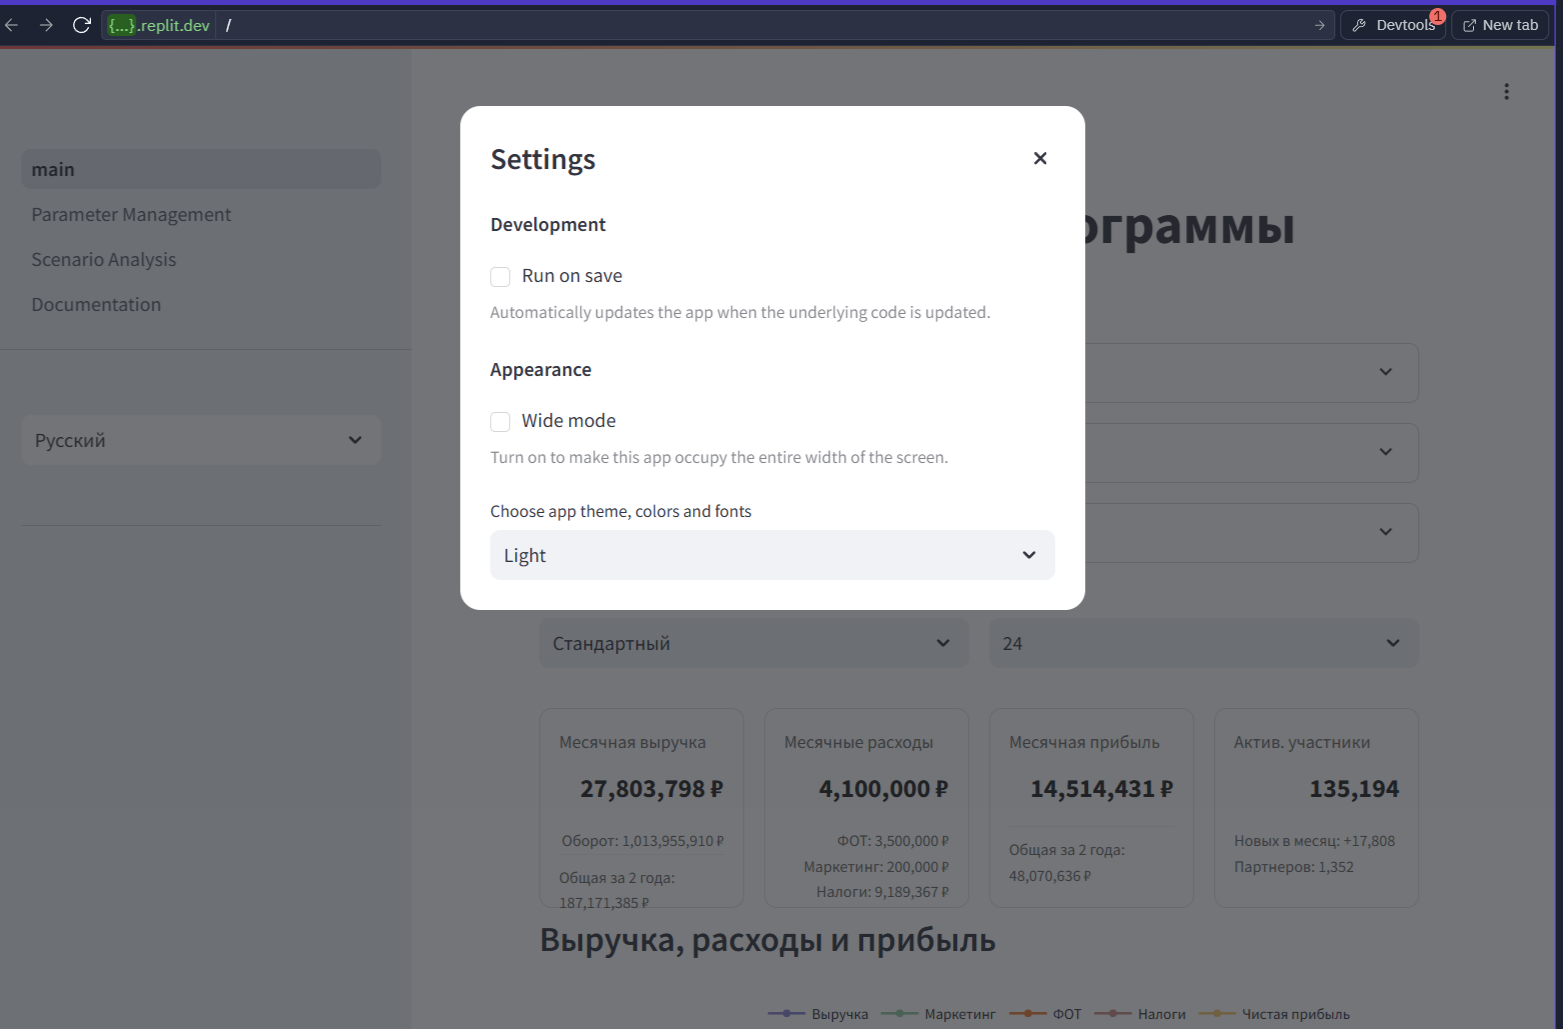
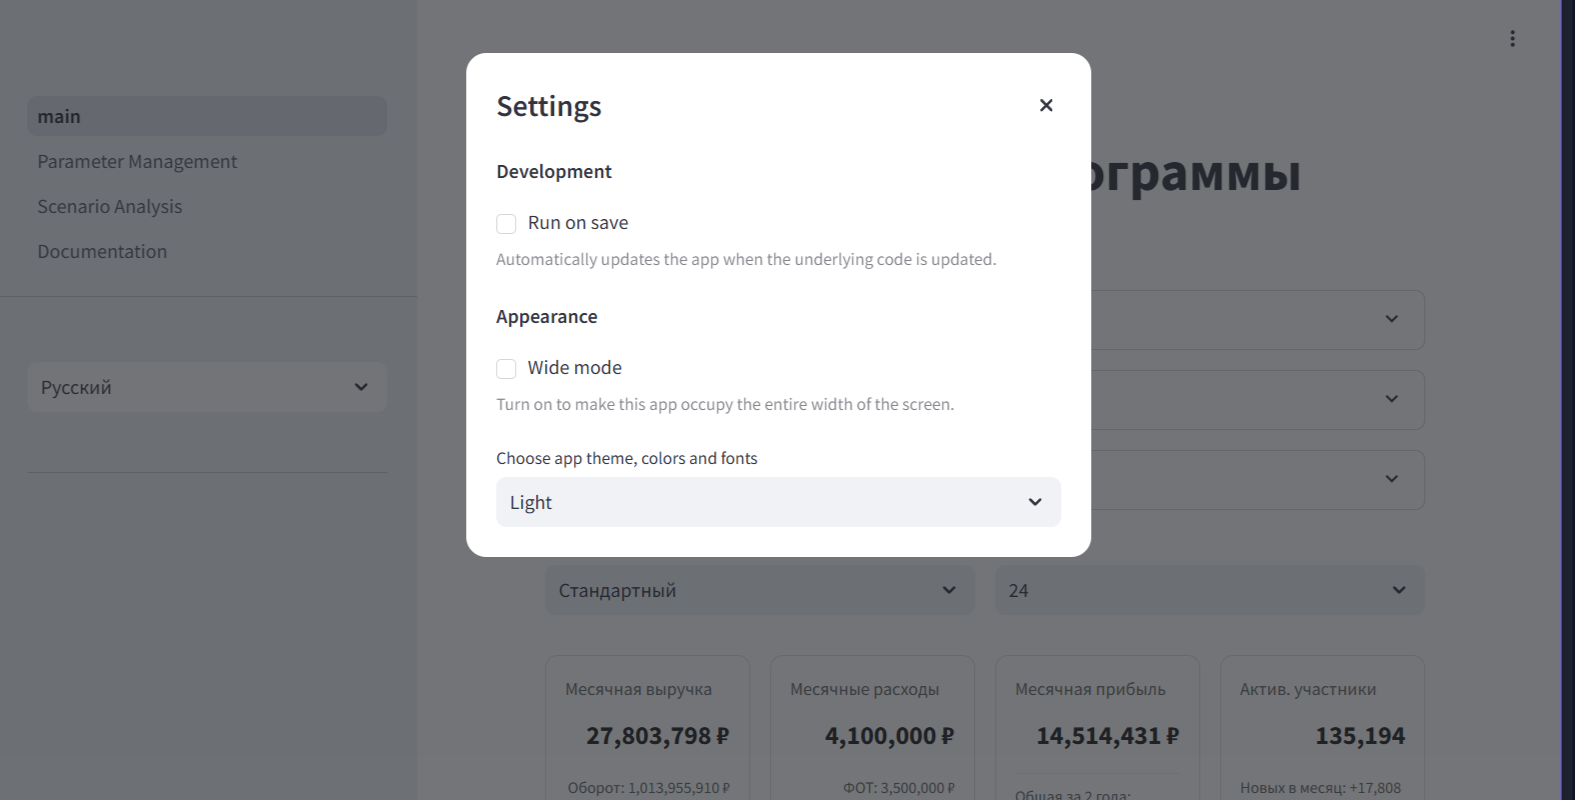
Agent query: Проверьте, пожалуйста, теперь wide mode включен по умолчанию при запуске приложения?
Improve financial model logging and set Streamlit page layout to wide.

Screenshot: https://storage.googleapis.com/screenshot-production-us-central1/f5e095a3-f525-4b15-8ae3-3ce0f434ca6e/5cedefb1-c8c7-4b51-bbd5-337c722f1c8a.jpg

diff --git a/main.py b/main.py
@@ -1,4 +1,8 @@
 import streamlit as st
+# Set page config at the very start
+import streamlit as st
+st.set_page_config(layout="wide")
+
 import plotly.graph_objects as go
 from utils.config import initialize_session_state
 from utils.logging_config import log_error, log_info
